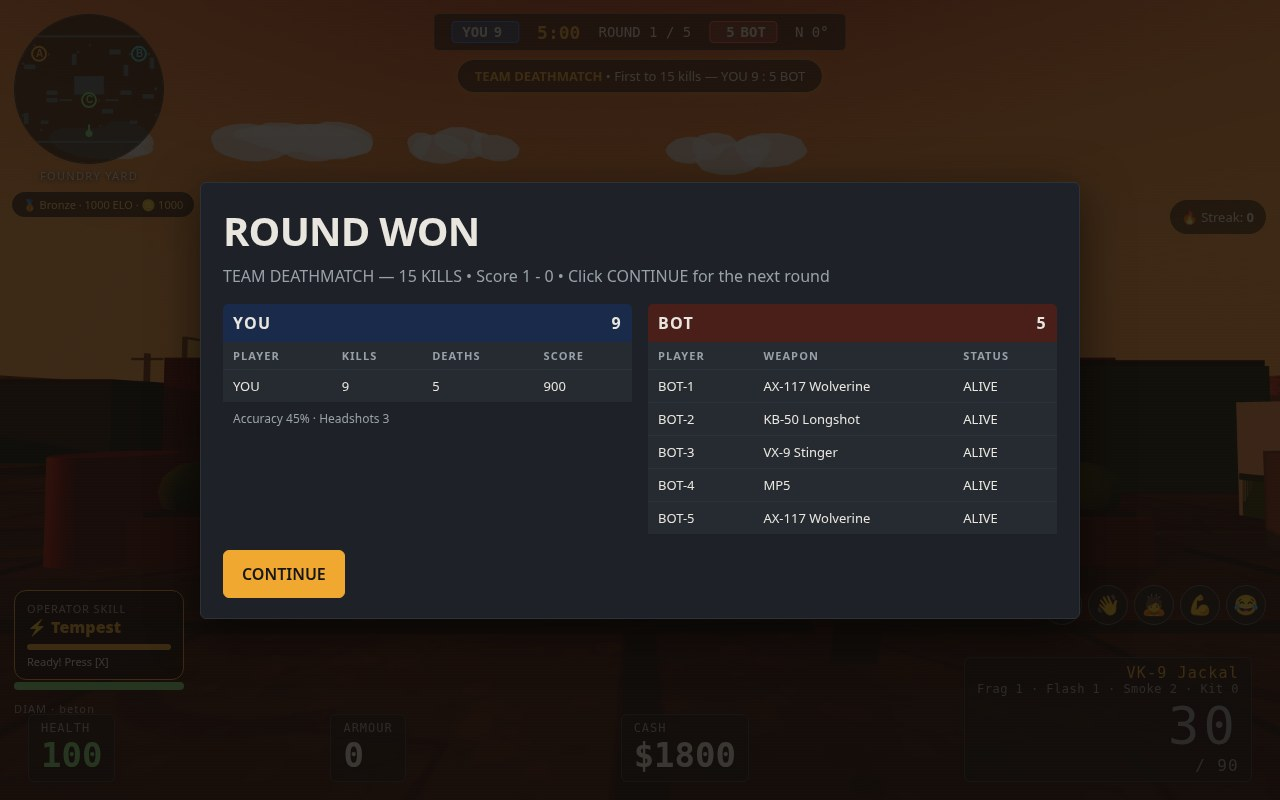
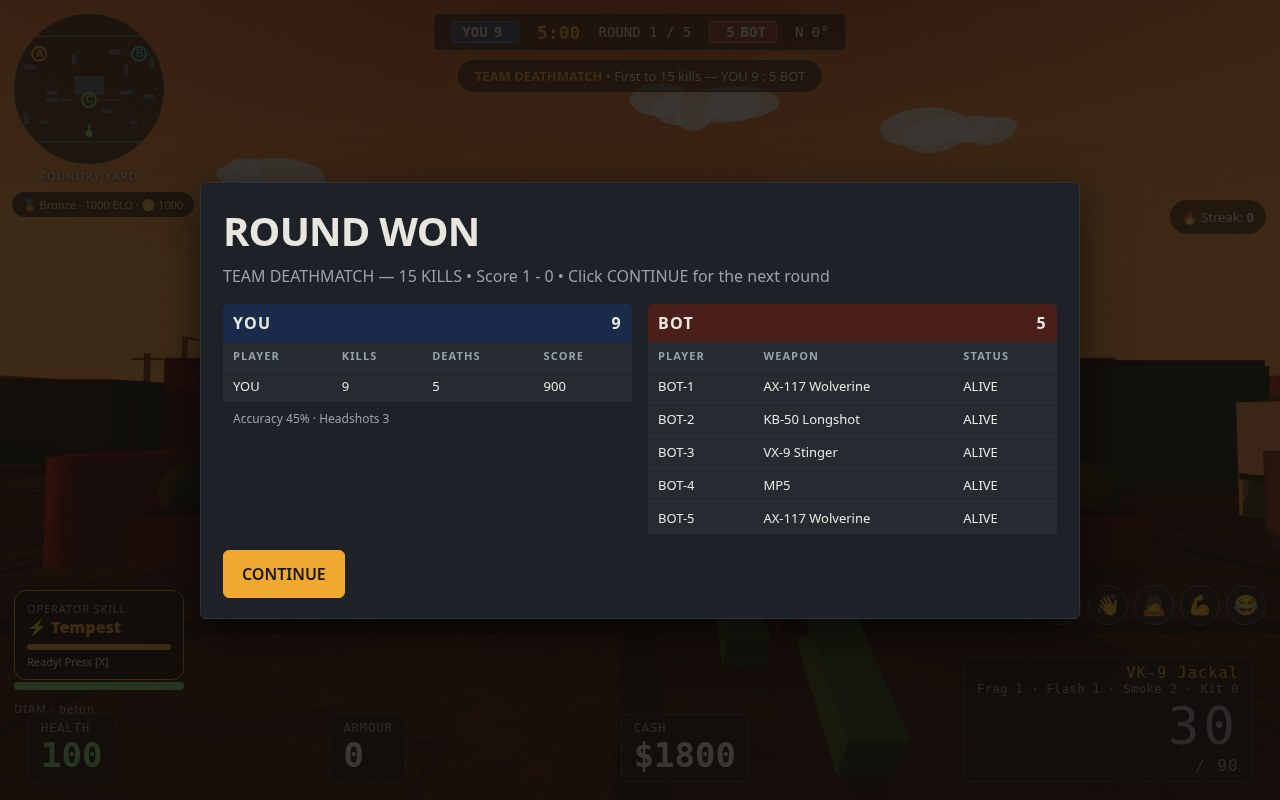
forge-fps weapon shape + effects pass: chunkier per-class viewmodels with distinct parts (double-barrel B12, wooden pump, top rib; widened receivers/handguards/mags/grips/stocks across all 21 weapons), bigger gripping hands with mid-grey gloves and visible green forearms (fixed applyCamo repainting 

Changed region(s): [[0.1562, 0.1562, 0.4062, 0.25], [0.5, 0.0938, 0.625, 0.2188], [0.6875, 0.125, 0.7812, 0.1875]]

diff --git a/game/src/characters.js b/game/src/characters.js
@@ -79,7 +79,7 @@ export function camoMatches(camo, mapId, weather) {
 }
 
 const SKIN_TONE = { male: 0xc89878, female: 0xd9a986 };
-const GLOVE_COLOR = { default: 0x26262a, ghillie: 0x2a3a1a, samurai: 0x3a1a1a, zombie: 0x4a6a2a, gold: 0xc9a227, stealth: 0x0a0a0a };
+const GLOVE_COLOR = { default: 0x4a4a52, ghillie: 0x2a3a1a, samurai: 0x3a1a1a, zombie: 0x4a6a2a, gold: 0xc9a227, stealth: 0x0a0a0a };
 // Dark charcoal default glove: reads as a hand against the bright gold
 // mythic gun even under warm dusk light (a brown glove washes gold).
 
@@ -718,11 +718,12 @@ export function createBotModel(weaponSkin, weaponId, name, charOpId = 'specter',
 // Glove color follows the player's character skin.
 export function createFirstPersonHands(S) {
   const group = new THREE.Group();
-  const gloveM = new THREE.MeshStandardMaterial({ color: GLOVE_COLOR[S.charSkin] || 0x26262a, roughness: 0.9 });
-  const sleeveM = new THREE.MeshStandardMaterial({ color: 0x2e7d5f, roughness: 0.85 });
+  const gloveM = new THREE.MeshStandardMaterial({ color: GLOVE_COLOR[S.charSkin] || 0x4a4a52, roughness: 0.9 });
+  const sleeveM = new THREE.MeshStandardMaterial({ color: 0x2e8b62, roughness: 0.85, emissive: 0x0a2e1c, emissiveIntensity: 0.4 });
   const gunM = new THREE.MeshStandardMaterial({ color: 0x2b2f33, roughness: 0.5, metalness: 0.5 });
   const barrelM = new THREE.MeshStandardMaterial({ color: 0x16181c, roughness: 0.35, metalness: 0.8 });
   const gripM = new THREE.MeshStandardMaterial({ color: 0x14161a, roughness: 0.95 });
+  const woodM = new THREE.MeshStandardMaterial({ color: 0x6b4a2a, roughness: 0.8 });
   const bladeM = new THREE.MeshStandardMaterial({ color: 0xd8dce2, roughness: 0.25, metalness: 0.9 });
   const accentM = new THREE.MeshStandardMaterial({ color: 0xffb020, roughness: 0.5, metalness: 0.3 });
   // HANDS REWORK (2026-11-16, reference: hand clearly gripping the gun):
@@ -733,24 +734,26 @@ export function createFirstPersonHands(S) {
   // moves the hands together with the gun — the gun no longer slides out
   // of the grip when it kicks.
   const handsGroup = new THREE.Group(); group.add(handsGroup);
-  const handR = box(0.17, 0.13, 0.17, gloveM); handR.position.set(0.08, -0.18, -0.05); handsGroup.add(handR);
+  const handR = box(0.21, 0.16, 0.2, gloveM); handR.position.set(0.08, -0.2, -0.04); handsGroup.add(handR);
   for (let i = 0; i < 4; i++) {
-    const f = box(0.04, 0.12, 0.04, gloveM);
-    f.position.set(0.03 + i * 0.04, -0.09, -0.06); f.rotation.x = 0.6; handsGroup.add(f);
+    const f = box(0.05, 0.14, 0.05, gloveM);
+    f.position.set(0.02 + i * 0.05, -0.1, -0.03); f.rotation.x = 0.6; handsGroup.add(f);
   }
-  const thumbR = box(0.035, 0.05, 0.1, gloveM); thumbR.position.set(0.15, -0.14, -0.04); thumbR.rotation.y = -0.6; handsGroup.add(thumbR);
-  const armR = box(0.12, 0.12, 0.16, sleeveM); armR.position.set(0.13, -0.26, 0.1); armR.rotation.x = 0.3; handsGroup.add(armR);
+  const thumbR = box(0.04, 0.06, 0.12, gloveM); thumbR.position.set(0.16, -0.15, -0.03); thumbR.rotation.y = -0.6; handsGroup.add(thumbR);
+  const armR = box(0.12, 0.12, 0.3, sleeveM); armR.position.set(0.1, -0.35, 0.14); armR.rotation.x = 0.5; handsGroup.add(armR);
   // Left hand rides a subgroup so buildGun can slide it along the fore-end
   // per weapon class (pump on shotguns, handguard on rifles, grip on pistols).
   const gripL = new THREE.Group(); handsGroup.add(gripL);
-  const handL = box(0.17, 0.12, 0.17, gloveM); handL.position.set(-0.05, -0.19, 0); gripL.add(handL);
+  const handL = box(0.21, 0.15, 0.2, gloveM); handL.position.set(-0.05, -0.21, 0); gripL.add(handL);
   for (let i = 0; i < 4; i++) {
-    const f = box(0.04, 0.11, 0.04, gloveM);
-    f.position.set(-0.10 + i * 0.04, -0.10, -0.03); f.rotation.x = 0.6; gripL.add(f);
+    const f = box(0.05, 0.13, 0.05, gloveM);
+    f.position.set(-0.11 + i * 0.05, -0.11, 0.0); f.rotation.x = 0.6; gripL.add(f);
   }
-  const thumbL = box(0.035, 0.05, 0.1, gloveM); thumbL.position.set(0.02, -0.15, 0); thumbL.rotation.y = 0.6; gripL.add(thumbL);
+  const thumbL = box(0.04, 0.06, 0.12, gloveM); thumbL.position.set(0.03, -0.16, 0); thumbL.rotation.y = 0.6; gripL.add(thumbL);
   gripL.position.set(0, 0, -0.5);
-  const armL = box(0.12, 0.12, 0.18, sleeveM); armL.position.set(-0.08, -0.25, -0.3); armL.rotation.x = 0.45; handsGroup.add(armL);
+  const armL = box(0.12, 0.12, 0.3, sleeveM); armL.position.set(-0.06, -0.35, -0.28); armL.rotation.x = 0.55; handsGroup.add(armL);
+  // Camo repaints the GUN only: hands + sleeves keep their colours.
+  handsGroup.traverse(o => { if (o.isMesh) o.userData.noCamo = true; });
   // Gun (rebuilt per weapon below).
   const gun = new THREE.Group();
   group.add(gun);
@@ -787,12 +790,12 @@ export function createFirstPersonHands(S) {
       // Magazine: base y MUST stay -0.09 (the reload animation in step()
       // resets mag.position.y to exactly -0.09).
       const magAt = (x, z, tilt = 0.3, h = 0.13) => {
-        const m = P(0.05, h, 0.06, gunM, x, -0.09, z, tilt);
-        P(0.052, 0.02, 0.062, accentM, x, -0.09 - h / 2 + 0.01, z + 0.015, tilt);
+        const m = P(0.06, h, 0.07, gunM, x, -0.09, z, tilt);
+        P(0.062, 0.02, 0.072, accentM, x, -0.09 - h / 2 + 0.01, z + 0.015, tilt);
         return m;
       };
-      const gripAt = (x, z) => P(0.045, 0.11, 0.06, gripM, x, -0.08, z, 0.35);
-      const stockAt = (len) => { P(0.05, 0.08, len, gunM, 0, -0.02, 0.06); P(0.055, 0.09, 0.03, gripM, 0, -0.02, 0.06 + len / 2); };
+      const gripAt = (x, z) => P(0.055, 0.12, 0.07, gripM, x, -0.08, z, 0.35);
+      const stockAt = (len) => { P(0.06, 0.09, len, gunM, 0, -0.02, 0.06); P(0.065, 0.1, 0.03, gripM, 0, -0.02, 0.06 + len / 2); };
       const railStrip = (z, len) => P(0.052, 0.012, len, accentM, 0, 0.028, z);
       const frontPost = (z) => P(0.015, 0.05, 0.015, barrelM, 0, 0.045, z);
       const rearSight = (z) => P(0.025, 0.035, 0.03, accentM, 0, 0.032, z);
@@ -806,8 +809,8 @@ export function createFirstPersonHands(S) {
         P(0.05, 0.04, 0.05, gunM, 0, 0.025, z);
       };
       if (cls === 'sniper') {
-        P(0.05, 0.07, 0.4, gunM, 0, -0.01, -0.3);
-        CYL(0.014, 0.36, barrelM, 0, -0.01, -0.62);
+        P(0.06, 0.08, 0.4, gunM, 0, -0.01, -0.3);
+        CYL(0.018, 0.36, barrelM, 0, -0.01, -0.62);
         scopeAt(-0.3, 0.035, 0.2);
         mag = magAt(0, -0.2, 0.1);
         gripAt(0, -0.02); stockAt(0.2);
@@ -817,35 +820,36 @@ export function createFirstPersonHands(S) {
         P(0.012, 0.16, 0.012, barrelM, 0.05, -0.1, -0.5, 0, -0.5);
         muzzle(-0.82); tipZ = -0.86;
       } else if (cls === 'smg') {
-        P(0.05, 0.06, 0.26, gunM, 0, -0.01, -0.26);
-        CYL(0.015, 0.1, barrelM, 0, -0.01, -0.46);
+        P(0.06, 0.07, 0.26, gunM, 0, -0.01, -0.26);
+        CYL(0.018, 0.1, barrelM, 0, -0.01, -0.46);
         if (w.id === 'qq9') CYL(0.028, 0.14, barrelM, 0, -0.01, -0.55);
         mag = magAt(0, -0.18, 0.1, 0.2);
         gripAt(0, 0.0);
-        P(0.04, 0.09, 0.04, gripM, 0, -0.08, -0.38, 0.1); // foregrip
+        P(0.05, 0.1, 0.05, gripM, 0, -0.08, -0.38, 0.1); // foregrip
         P(0.04, 0.06, 0.14, gunM, 0, -0.02, 0.05); // collapsible stock
         frontPost(-0.4); rearSight(-0.14); tipZ = -0.55;
       } else if (cls === 'dmr') {
-        P(0.05, 0.07, 0.36, gunM, 0, -0.01, -0.3);
-        CYL(0.015, 0.26, barrelM, 0, -0.01, -0.58);
+        P(0.06, 0.08, 0.36, gunM, 0, -0.01, -0.3);
+        CYL(0.018, 0.26, barrelM, 0, -0.01, -0.58);
         scopeAt(-0.3, 0.03, 0.16);
         mag = magAt(0, -0.22, 0.12);
         gripAt(0, -0.04); stockAt(0.18);
         muzzle(-0.72); tipZ = -0.76;
       } else if (cls === 'shotgun') {
-        P(0.055, 0.07, 0.3, gunM, 0, -0.01, -0.26);
-        // Double barrel (reference look): two side-by-side barrels.
-        CYL(0.022, 0.3, barrelM, -0.028, -0.01, -0.55);
-        CYL(0.022, 0.3, barrelM, 0.028, -0.01, -0.55);
-        CYL(0.02, 0.24, gunM, 0, -0.05, -0.5); // tube mag under barrels
-        P(0.09, 0.06, 0.14, gripM, 0, -0.015, -0.5); // pump
-        P(0.092, 0.02, 0.02, barrelM, 0, -0.015, -0.44);
-        P(0.092, 0.02, 0.02, barrelM, 0, -0.015, -0.56);
+        P(0.075, 0.09, 0.3, gunM, 0, -0.01, -0.26);
+        // Double barrel (reference look): two thick side-by-side barrels.
+        CYL(0.028, 0.3, barrelM, -0.032, -0.01, -0.55);
+        CYL(0.028, 0.3, barrelM, 0.032, -0.01, -0.55);
+        CYL(0.026, 0.24, gunM, 0, -0.055, -0.5); // tube mag under barrels
+        const pump = P(0.11, 0.08, 0.16, woodM, 0, -0.02, -0.5); pump.userData.noCamo = true; // wooden pump
+        P(0.112, 0.02, 0.02, barrelM, 0, -0.02, -0.44);
+        P(0.112, 0.02, 0.02, barrelM, 0, -0.02, -0.56);
+        P(0.02, 0.012, 0.3, barrelM, 0, 0.032, -0.5); // top rib
         frontPost(-0.68); rearSight(-0.12);
         gripAt(0, -0.02); stockAt(0.2); tipZ = -0.72;
       } else if (cls === 'lmg') {
-        P(0.055, 0.08, 0.4, gunM, 0, -0.01, -0.3);
-        CYL(0.018, 0.28, barrelM, 0, -0.01, -0.62);
+        P(0.07, 0.09, 0.4, gunM, 0, -0.01, -0.3);
+        CYL(0.022, 0.28, barrelM, 0, -0.01, -0.62);
         const drum = new THREE.Mesh(new THREE.CylinderGeometry(0.07, 0.07, 0.06, 12), gunM);
         drum.rotation.z = Math.PI / 2; drum.position.set(0, -0.1, -0.2); drum.castShadow = true; gun.add(drum);
         P(0.04, 0.03, 0.2, gunM, 0, 0.05, -0.3); // carry handle
@@ -857,24 +861,24 @@ export function createFirstPersonHands(S) {
         if (w.id === 'dual') {
           for (const sx of [-0.055, 0.055]) {
             const rz = sx > 0 ? 0.12 : -0.12;
-            P(0.04, 0.045, 0.24, gunM, sx, 0.005, -0.3, 0, rz);
-            P(0.04, 0.06, 0.2, gripM, sx, -0.035, -0.26, 0, rz);
-            P(0.04, 0.1, 0.06, gripM, sx, -0.1, -0.12, 0.25, rz);
+            P(0.05, 0.05, 0.24, gunM, sx, 0.005, -0.3, 0, rz);
+            P(0.05, 0.07, 0.2, gripM, sx, -0.035, -0.26, 0, rz);
+            P(0.05, 0.11, 0.07, gripM, sx, -0.1, -0.12, 0.25, rz);
           }
           mag = P(0.035, 0.08, 0.05, gunM, -0.055, -0.09, -0.12, 0.25, -0.12);
           P(0.037, 0.02, 0.052, accentM, -0.055, -0.125, -0.11, 0.25, -0.12);
           tipZ = -0.44;
         } else {
-          P(0.04, 0.045, 0.24, gunM, 0, 0.005, -0.3); // slide
-          P(0.04, 0.06, 0.2, gripM, 0, -0.035, -0.26); // frame
-          P(0.04, 0.1, 0.06, gripM, 0, -0.1, -0.12, 0.25); // grip
+          P(0.05, 0.05, 0.24, gunM, 0, 0.005, -0.3); // slide
+          P(0.05, 0.07, 0.2, gripM, 0, -0.035, -0.26); // frame
+          P(0.05, 0.11, 0.07, gripM, 0, -0.1, -0.12, 0.25); // grip
           mag = magAt(0, -0.12, 0.25, 0.08);
           frontPost(-0.4); rearSight(-0.16); tipZ = -0.44;
         }
       } else if (cls === 'launcher') {
-        CYL(0.05, 0.6, gunM, 0, -0.01, -0.28); // fat tube
+        CYL(0.06, 0.6, gunM, 0, -0.01, -0.28); // fat tube
         if (w.id === 'rpg') {
-          const cone = new THREE.Mesh(new THREE.ConeGeometry(0.055, 0.16, 10), barrelM);
+          const cone = new THREE.Mesh(new THREE.ConeGeometry(0.065, 0.16, 10), barrelM);
           cone.rotation.x = -Math.PI / 2; cone.position.set(0, -0.01, -0.62); cone.castShadow = true; gun.add(cone);
         }
         if (w.id === 'thumper') {
@@ -886,13 +890,13 @@ export function createFirstPersonHands(S) {
         P(0.02, 0.05, 0.02, accentM, 0, 0.06, -0.3); // sight
         tipZ = -0.6;
       } else if (cls === 'melee') {
-        P(0.012, 0.05, 0.3, bladeM, 0, 0.02, -0.45); // blade
-        P(0.012, 0.045, 0.14, bladeM, 0, 0.028, -0.66, 0.12); // blade tip
-        CYL(0.02, 0.14, gripM, 0, -0.01, -0.12); // wrapped handle
+        P(0.016, 0.05, 0.3, bladeM, 0, 0.02, -0.45); // blade
+        P(0.016, 0.045, 0.14, bladeM, 0, 0.028, -0.66, 0.12); // blade tip
+        CYL(0.024, 0.14, gripM, 0, -0.01, -0.12); // wrapped handle
         P(0.07, 0.02, 0.02, accentM, 0, -0.01, -0.2); // guard
         tipZ = -0.75;
       } else if (cls === 'crossbow') {
-        P(0.05, 0.06, 0.4, gunM, 0, -0.01, -0.28); // stock
+        P(0.06, 0.07, 0.4, gunM, 0, -0.01, -0.28); // stock
         P(0.3, 0.02, 0.03, gunM, -0.12, 0, -0.5, 0, 0.5); // limbs
         P(0.3, 0.02, 0.03, gunM, 0.12, 0, -0.5, 0, -0.5);
         P(0.5, 0.008, 0.008, barrelM, 0, 0, -0.42); // string
@@ -900,12 +904,13 @@ export function createFirstPersonHands(S) {
         scopeAt(-0.28, 0.025, 0.12);
         gripAt(0, -0.04); tipZ = -0.6;
       } else { // ar (default)
-        P(0.05, 0.07, 0.34, gunM, 0, -0.01, -0.28); // receiver
-        P(0.055, 0.055, 0.2, gunM, 0, -0.01, -0.5); // handguard
-        CYL(0.016, 0.14, barrelM, 0, -0.01, -0.66);
+        P(0.065, 0.08, 0.34, gunM, 0, -0.01, -0.28); // receiver
+        P(0.07, 0.07, 0.2, gunM, 0, -0.01, -0.5); // handguard
+        P(0.05, 0.1, 0.05, gripM, 0, -0.08, -0.48, 0.1); // foregrip
+        CYL(0.02, 0.14, barrelM, 0, -0.01, -0.66);
         railStrip(-0.4, 0.3);
         frontPost(-0.58); rearSight(-0.14);
-        if (w.id === 'vk9') CYL(0.03, 0.16, barrelM, 0, -0.01, -0.76); // suppressor
+        if (w.id === 'vk9') CYL(0.034, 0.16, barrelM, 0, -0.01, -0.76); // suppressor
         else muzzle(-0.74);
         mag = magAt(0, -0.2, 0.35); // curved mag
         P(0.05, 0.08, 0.06, gunM, 0, -0.14, -0.17, 0.5);
@@ -938,8 +943,8 @@ export function createFirstPersonHands(S) {
       // Recoil: gun jumps forward 0.05 then settles back — the hands ride
       // along (handsGroup) so the grip never slides out of the fingers.
       if (this.kickT > 0) this.kickT = Math.max(0, this.kickT - dt * 8);
-      gun.position.z = this.kickT * 0.05;
-      handsGroup.position.z = this.kickT * 0.05;
+      gun.position.z = this.kickT * 0.08;
+      handsGroup.position.z = this.kickT * 0.08;
       // Reload: weapon dips down and the magazine drops, then returns.
       if (w.reloading) {
         const p = 1 - Math.max(0, w.reloadT) / w.reload;

diff --git a/game/src/effects.js b/game/src/effects.js
@@ -54,7 +54,7 @@ export function createEffects(scene, S, audio) {
   let poolIdx = 0;
   // ---- Tracer pool: glowing lines from the muzzle to the hit ----
   const tracers = [];
-  const tubeGeo = new THREE.CylinderGeometry(0.03, 0.03, 1, 6);
+  const tubeGeo = new THREE.CylinderGeometry(0.035, 0.035, 1, 6);
   for (let i = 0; i < 8; i++) {
     const g = new THREE.BufferGeometry();
     g.setAttribute('position', new THREE.BufferAttribute(new Float32Array(6), 3));
@@ -112,7 +112,7 @@ export function createEffects(scene, S, audio) {
     const tex = new THREE.CanvasTexture(c);
     return tex;
   }
-  const flash = new THREE.Mesh(new THREE.PlaneGeometry(0.34, 0.34),
+  const flash = new THREE.Mesh(new THREE.PlaneGeometry(0.5, 0.5),
     new THREE.MeshBasicMaterial({ map: makeFlashTexture(), color: 0xffffff, transparent: true, opacity: 0, depthWrite: false }));
   flash.visible = false; scene.add(flash);
   const flashLight = new THREE.PointLight(0xffaa33, 0, 6);
@@ -200,11 +200,11 @@ export function createEffects(scene, S, audio) {
     if (S.settings && S.settings.graphics && S.settings.graphics.muzzle === false) return;
     flash.position.copy(tip);
     flash.lookAt(camPos);
-    flash.visible = true; flashT = 0.06;
+    flash.visible = true; flashT = 0.08;
     flash.material.opacity = 1;
-    flash.scale.setScalar((0.8 + Math.random() * 0.5) * scale);
-    flashLight.position.copy(tip);
-    flashLight.intensity = 4 * scale;
+    flash.scale.setScalar((1.1 + Math.random() * 0.6) * scale);
+    flashLight.position.copy(tip).addScaledVector(dir, 0.4);
+    flashLight.intensity = 3 * scale;
     // Muzzle smoke lingers ~2s (v18.2.3): grows and fades slowly.
     const s = smokes[smIdx]; smIdx = (smIdx + 1) % smokes.length;
     s.sprite.position.copy(tip);
@@ -222,7 +222,7 @@ export function createEffects(scene, S, audio) {
     // red 0xff2222) is used as-is.
     const col = typeof sniper === 'number' || typeof sniper === 'string' ? sniper : (sniper ? 0x55ddff : 0xffdd55);
     t.line.material.color.set(col);
-    t.line.visible = true; t.line.material.opacity = 0.95; t.life = 0.09;
+    t.line.visible = true; t.line.material.opacity = 1; t.life = 0.13;
     // Tube: midpoint + length + orientation from the same endpoints.
     const dx = to.x - from.x, dy = to.y - from.y, dz = to.z - from.z;
     const len = Math.hypot(dx, dy, dz) || 0.001;
@@ -230,7 +230,7 @@ export function createEffects(scene, S, audio) {
     t.tube.scale.set(1, len, 1);
     t.tube.quaternion.setFromUnitVectors(new THREE.Vector3(0, 1, 0), new THREE.Vector3(dx / len, dy / len, dz / len));
     t.tube.material.color.set(col);
-    t.tube.material.opacity = 0.85; t.tube.visible = true;
+    t.tube.material.opacity = 0.95; t.tube.visible = true;
   }
   function shell(tip, right) {
     const s = shells[shIdx]; shIdx = (shIdx + 1) % shells.length;

diff --git a/game/src/weapon.js b/game/src/weapon.js
@@ -27,7 +27,7 @@ export function createWeapon(scene, camera, S, audio, effects, cbs = {}) {
   ray.far = 120;
   // First-person hands + gun viewmodel attached to the camera.
   const hands = createFirstPersonHands(S);
-  hands.group.scale.setScalar(0.55);
+  hands.group.scale.setScalar(0.62);
   hands.group.position.set(0.22, -0.2, -0.8);
   camera.add(hands.group);
   scene.add(camera);
@@ -161,7 +161,7 @@ export function createWeapon(scene, camera, S, audio, effects, cbs = {}) {
     const hex = wc ? parseInt(String(wc).replace('#', ''), 16) : camo.color;
     const em = wc ? 0 : camo.emissive;
     hands.group.traverse(o => {
-      if (o.isMesh && o.material && o.material.color) {
+      if (o.isMesh && !o.userData.noCamo && o.material && o.material.color) {
         o.material.color.setHex(hex);
         if (o.material.emissive) o.material.emissive.setHex(em);
       }
@@ -242,7 +242,7 @@ export function createWeapon(scene, camera, S, audio, effects, cbs = {}) {
     // Viewmodel bob + ADS position (emote can lift/hide the gun).
     // ADS speed comes from the Gunsmith (stock / scope / barrel).
     const t = S.time;
-    const bob = S.player.moving && S.player.onGround ? Math.sin(t * 11) * 0.012 : 0;
+    const bob = S.player.moving && S.player.onGround ? Math.sin(t * 11) * 0.016 : 0;
     const em = S.emote;
     let gx = S.ads ? 0.0 : 0.22, gy = S.ads ? -0.16 : -0.17 + bob, vis = true;
     if (em) {
